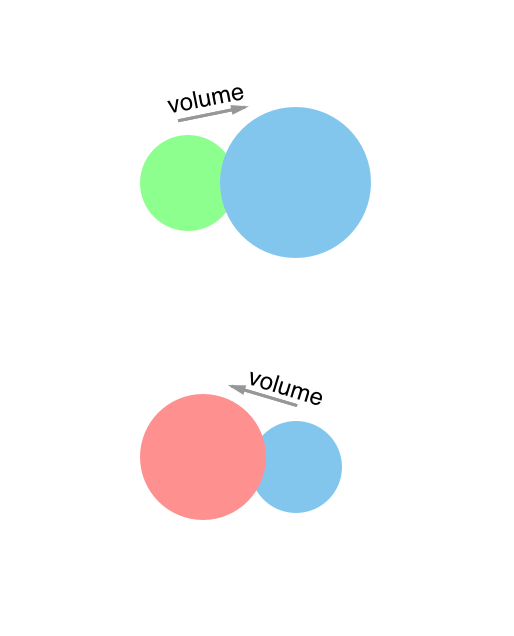
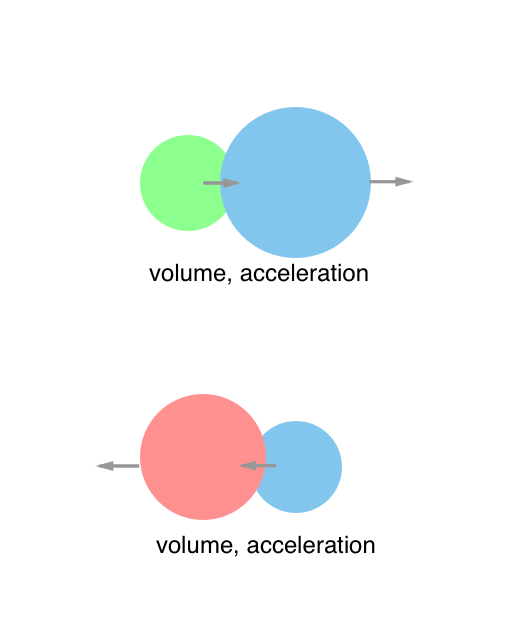
absorbtion works

diff --git a/final/prototype.cpp b/final/prototype.cpp
@@ -1,51 +1,65 @@
 //Yuan Yao, MAT201B, Feb 29th, yuanyao00@ucsb.edu
 #include "allocore/io/al_App.hpp"
 #include "Cuttlebone/Cuttlebone.hpp"
+#include <cmath> 
 using namespace al;
 using namespace std;
 
-unsigned particleCount = 200;     // try 2, 5, 50, and 5000
-double maximumAcceleration = 30;  // prevents explosion, loss of particles
-double initialRadius = 50;        // initial condition
-double initialSpeed = 50;         // initial condition
-double gravityFactor = 1e6;       // see Gravitational Constant
-double timeStep = 0.0625;         // keys change this value for effect
-double scaleFactor = 0.1;         // resizes the entire scene
-double sphereRadius = 3;  // increase this to make collisions more frequent
-double springConstant = 80;
+unsigned particleCount = 5;   
+double maximumAcceleration = 10;  
+double sphereRadius = 30;  
+double placeholderSize = 100;
+float scaleFactor = 0.1;   
 
-Mesh sphere;  // global prototype; leave this alone
+Mesh sphere;  
 
-// helper function: makes a random vector
+// helper to make random
 Vec3f r() { return Vec3f(rnd::uniformS(), rnd::uniformS(), rnd::uniformS()); }
 
 struct Planet{
   Vec3f location, velocity, acceleration;
   float maxspeed, maxforce, rad;
   Color c;
-
+  float volume;
+  bool myself;
+  Mesh mesh;
+  //default to be a not me planet
   Planet(){
-    // acceleration = Vec3f(0,0,0);
-    acceleration = Vec3f(0,0,0);
     velocity = r();
-    location = (r()*200).normalize(200);
-    rad = 3.0;
+    location = (r()*placeholderSize).normalize(placeholderSize);
+    rad = (rnd::uniformS()*1.5)+sphereRadius;
+    cout<<rnd::uniformS()<<endl;
+    addSphere(mesh, rad);
+    mesh.generateNormals();
     maxspeed = 4;
     maxforce = 0.1;
-    c = HSV(rnd::uniform(), 0.7, 1);
+    c = HSV(0, 0.7, 1);
+    myself = false;
+    volume = 3.14* 4/3 *(rad) *(rad) *(rad);
+  }
+
+  Planet(bool myself){
+    Planet();
+    this->myself = myself;
+
+    if(this->myself == true){
+      c = HSV(200.0/360.0f, 1 , 1);
+    }
+
   }
 
   //Euler method
   void update(){
     this->velocity += this->acceleration;
     if (velocity.mag() > maxspeed){
-      velocity.normalize(maxspeed);
+      velocity = velocity.normalize(maxspeed);
     }
     this->location += this->velocity;
-    if (location.mag() > 200){
-      location = location.normalize(200);
+    if (location.mag() > placeholderSize){
+      location = location.normalize(placeholderSize);
     }
     acceleration.zero(); 
+
   }
 
   void applyForce(Vec3f force){
@@ -56,8 +70,21 @@ struct Planet{
     g.pushMatrix();
     g.translate(location);
     g.color(c);
-    g.draw(sphere);
+    g.draw(mesh);
     g.popMatrix();
+  }
+
+  bool ifCollide(Planet otherPlanet){
+    if((location - otherPlanet.location).mag() <= (rad + otherPlanet.rad)){
+      return true;
+    }
+  return false;
+  }
+
+  void absorb(Planet otherPlanet){
+    volume += otherPlanet.volume;
+    rad = pow((volume *3 /4/3.14),1.0/3);
+    addSphere(mesh,rad);
   }
 
 };
@@ -67,30 +94,51 @@ struct MyApp : App {
   // State* state = new State;
   //cuttlebone::Maker<State> maker;
 
-
   Material material;
   Light light;
-  bool simulate = true;
-  vector<Planet> boids;
-  MyApp(){
-    addSphere(sphere, sphereRadius);
-    sphere.generateNormals();
-    light.pos(0, 0, 0);              // place the light
-    nav().pos(0, 0, 100);             // place the viewer
-    lens().far(400);                 // set the far clipping plane
-    boids.resize(particleCount);  // make all the particles
-    background(Color(0.07));
 
+  vector<Planet> planets;
+  Planet myPlanet = Planet(true);
+
+  MyApp(){
+
+    light.pos(0, 0, 0);         
+    nav().pos(0, 0, 50);        
+    lens().far(400);             
+
+    //addSphere(sphere, sphereRadius);
+    
+    planets.resize(particleCount);  
+
+    background(Color(0.07));
     initWindow();
     initAudio();
   }
 
   void onAnimate(double dt) {
-    // if (!simulate)
-    //   // skip the rest of this function
-    //   return;
-    for (auto& b: boids) {
+
+    for (auto& b: planets) {
       b.update();
+    }
+    myPlanet.update();
+
+    vector<int> deletingPlanet;
+    for(int i = 0; i<planets.size(); i++){
+      for (int j = i + 1;j<planets.size(); j++){
+          if(planets[i].ifCollide(planets[j])){
+            if(planets[i].volume>planets[j].volume){
+              planets[i].absorb(planets[j]);
+              deletingPlanet.push_back(j);
+            }else{
+              planets[j].absorb(planets[i]);
+              deletingPlanet.push_back(i);
+            }
+          }
+      }
+    }
+
+    for(auto index: deletingPlanet){
+      planets.erase(planets.begin()+index);
     }
 
     //maker.set(*state);
@@ -102,34 +150,17 @@ struct MyApp : App {
     material();
     light();
     g.scale(scaleFactor);
-    for (auto& b : boids) b.draw(g);
+    myPlanet.draw(g);
+    for (auto& b : planets) b.draw(g);
+    
   }
 
-  void onSound(AudioIO& io) {
-    while (io()) {
-      io.out(0) = 0;
-      io.out(1) = 0;
-    }
-  }
 
   void onKeyDown(const ViewpointWindow&, const Keyboard& k) {
     switch (k.key()) {
       default:
       case '1':
         // reverse time
-        timeStep *= -1;
-        break;
-      case '2':
-        // speed up time
-        if (timeStep < 1) timeStep *= 2;
-        break;
-      case '3':
-        // slow down time
-        if (timeStep > 0.0005) timeStep /= 2;
-        break;
-      case '4':
-        // pause the simulation
-        simulate = !simulate;
         break;
     }
   }
